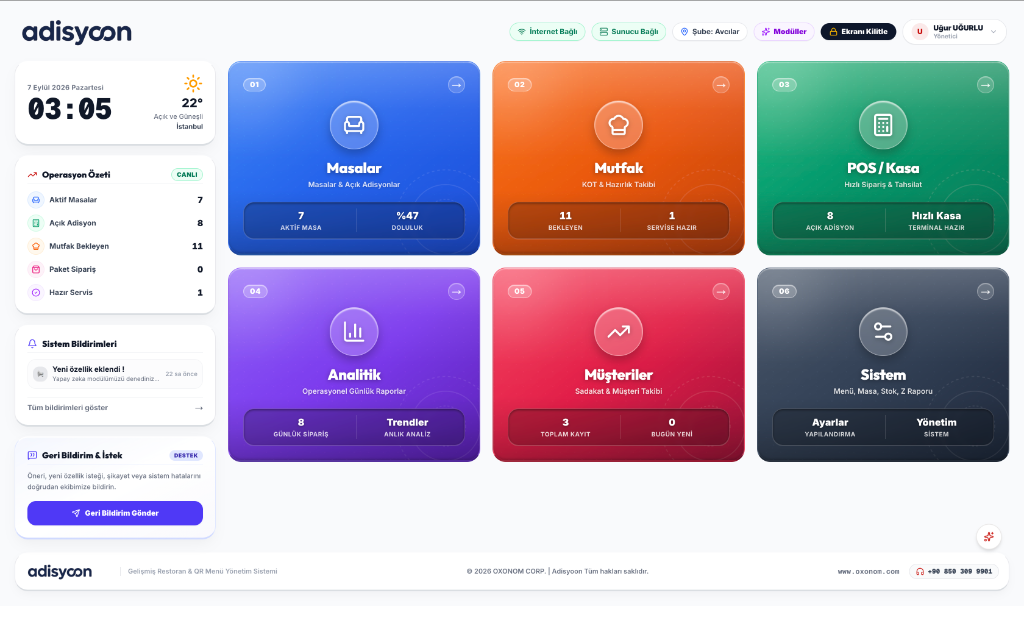
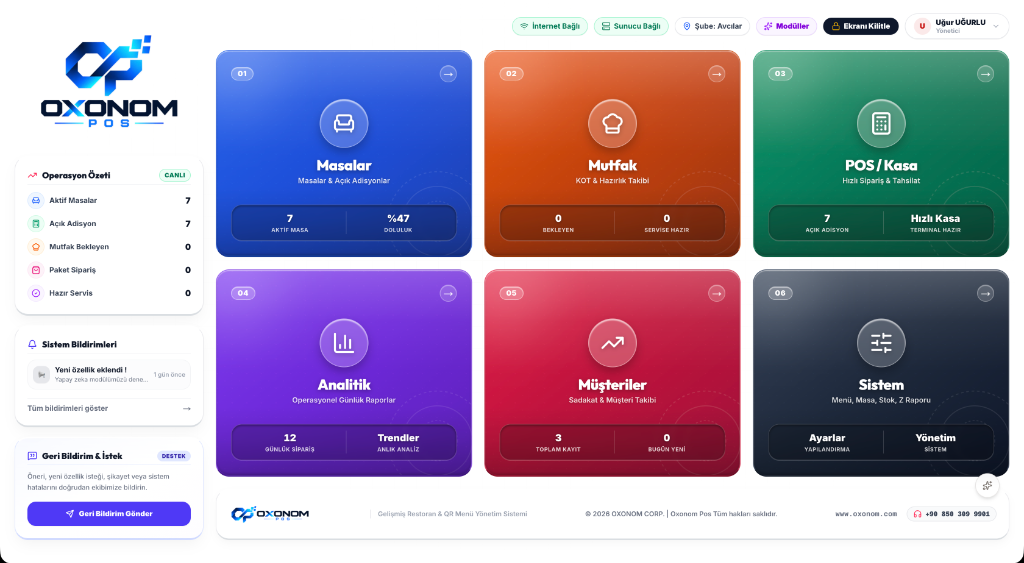
feat: implement Apple-style 3D scroll tilt animation with updated Oxonom POS screenshot

diff --git a/src/components/oxonom/hero-pos-mockup.tsx b/src/components/oxonom/hero-pos-mockup.tsx
@@ -1,59 +1,133 @@
 "use client";
 
-import React from "react";
+import React, { useRef } from "react";
 import Image from "next/image";
-import { CheckCircle2 } from "lucide-react";
-import { BrowserMockup } from "@/components/velora/browser-mockup";
+import { Lock, CheckCircle2, Wifi, Sparkles, Layers } from "lucide-react";
+import {
+  motion,
+  useScroll,
+  useTransform,
+  useSpring,
+  useReducedMotion,
+} from "motion/react";
 import { BorderBeam } from "@/components/velora/border-beam";
 
-export function HeroPosMockup({ className }: { className?: string }) {
+export function HeroPosMockup({ className = "" }: { className?: string }) {
+  const containerRef = useRef<HTMLDivElement>(null);
+  const reducedMotion = useReducedMotion();
+
+  // Track scroll position of this container relative to viewport
+  const { scrollYProgress } = useScroll({
+    target: containerRef,
+    offset: ["start end", "end start"],
+  });
+
+  // Apple-style 3D Scroll Physics:
+  // Starts tilted backward (rotateX: 22deg), translated down (translateY: 80px), and scaled (scale: 0.90).
+  // As the user scrolls down, it smoothly elevates and rotates flat (rotateX: 0deg, translateY: 0px, scale: 1.0).
+  const rawRotateX = useTransform(scrollYProgress, [0, 0.42], [22, 0]);
+  const rawTranslateY = useTransform(scrollYProgress, [0, 0.42], [80, 0]);
+  const rawScale = useTransform(scrollYProgress, [0, 0.42], [0.9, 1]);
+  const rawOpacity = useTransform(scrollYProgress, [0, 0.25], [0.65, 1]);
+
+  // Spring smoothing for that organic, momentum-based Apple feel
+  const rotateX = useSpring(rawRotateX, { stiffness: 170, damping: 26, mass: 0.5 });
+  const translateY = useSpring(rawTranslateY, { stiffness: 170, damping: 26, mass: 0.5 });
+  const scale = useSpring(rawScale, { stiffness: 170, damping: 26, mass: 0.5 });
+  const opacity = useSpring(rawOpacity, { stiffness: 170, damping: 26, mass: 0.5 });
+
   return (
-    <div className={`relative mx-auto max-w-5xl ${className}`}>
-      {/* Outer Glow */}
+    <div
+      ref={containerRef}
+      className={`relative mx-auto max-w-6xl px-2 sm:px-4 py-8 [perspective:1400px] ${className}`}
+    >
+      {/* Dynamic Ambient Background Glow */}
       <div
         aria-hidden
-        className="absolute -inset-4 sm:-inset-8 rounded-[2.5rem] bg-gradient-to-r from-primary/30 via-emerald-500/20 to-primary/30 opacity-30 blur-3xl pointer-events-none"
+        className="absolute -inset-4 sm:-inset-10 rounded-[3rem] bg-gradient-to-tr from-primary/30 via-emerald-500/20 to-blue-600/30 opacity-40 blur-3xl pointer-events-none -z-10"
       />
 
-      <BrowserMockup url="app.oxonompos.com" className="relative shadow-2xl border-border/70 overflow-hidden">
-        <BorderBeam size={160} duration={12} colorFrom="#3b82f6" colorTo="#10b981" />
+      {/* 3D Motion Container */}
+      <motion.div
+        style={
+          reducedMotion
+            ? undefined
+            : {
+                rotateX,
+                translateY,
+                scale,
+                opacity,
+                transformStyle: "preserve-3d",
+              }
+        }
+        className="w-full will-change-transform"
+      >
+        {/* Apple-Style Glass & Titanium Browser Mockup */}
+        <div className="relative rounded-2xl sm:rounded-3xl border border-border/80 bg-card/95 backdrop-blur-2xl shadow-[0_25px_80px_-15px_rgba(0,0,0,0.35)] dark:shadow-[0_30px_100px_-20px_rgba(0,0,0,0.9)] overflow-hidden">
+          {/* Neon BorderBeam animation */}
+          <BorderBeam size={200} duration={10} colorFrom="#3b82f6" colorTo="#10b981" />
 
-        <div className="relative bg-background overflow-hidden">
-          {/* Top Quick Status Header Bar */}
-          <div className="hidden sm:flex items-center justify-between px-4 py-2 bg-muted/40 border-b border-border/50 text-xs text-muted-foreground">
-            <div className="flex items-center gap-3">
-              <div className="flex items-center gap-1.5 font-semibold text-foreground">
-                <span className="size-2 rounded-full bg-emerald-500 animate-pulse" />
-                <span>Şube: Avcılar</span>
-              </div>
-              <span className="text-border">|</span>
-              <span className="text-[11px]">7 Aktif Masa (%47 Doluluk) • 8 Açık Adisyon</span>
-            </div>
+          {/* Browser Header Bar */}
+          <div className="flex items-center justify-between px-4 sm:px-6 py-3 border-b border-border/60 bg-muted/40 backdrop-blur-md">
+            {/* macOS Window Controls */}
             <div className="flex items-center gap-2">
-              <span className="inline-flex items-center gap-1 px-2 py-0.5 rounded text-[10px] font-medium bg-emerald-500/10 text-emerald-500 border border-emerald-500/20">
-                <CheckCircle2 className="size-3" />
-                İnternet & Sunucu Bağlı
+              <span className="size-3 rounded-full bg-[#ff5f56] shadow-sm ring-1 ring-black/10 hover:opacity-80 transition-opacity" />
+              <span className="size-3 rounded-full bg-[#ffbd2e] shadow-sm ring-1 ring-black/10 hover:opacity-80 transition-opacity" />
+              <span className="size-3 rounded-full bg-[#27c93f] shadow-sm ring-1 ring-black/10 hover:opacity-80 transition-opacity" />
+            </div>
+
+            {/* Apple Safari Center Address Capsule */}
+            <div className="flex items-center justify-center gap-2 px-4 py-1.5 rounded-full border border-border/60 bg-background/80 shadow-xs text-xs max-w-sm sm:max-w-md w-full mx-3">
+              <Lock className="size-3 text-emerald-500 shrink-0" />
+              <span className="font-semibold text-foreground tracking-tight text-[11px] sm:text-xs">
+                app.oxonompos.com
               </span>
-              <span className="text-border">|</span>
-              <span className="text-[11px]">app.oxonompos.com</span>
+              <span className="text-border hidden sm:inline">•</span>
+              <span className="text-[10px] text-muted-foreground hidden sm:inline truncate">
+                Merkezi Yönetim Konsolu
+              </span>
+            </div>
+
+            {/* Live Operational Status Pills */}
+            <div className="flex items-center gap-2 shrink-0">
+              <span className="hidden md:inline-flex items-center gap-1.5 px-2.5 py-1 rounded-full text-[10px] font-bold bg-emerald-500/10 text-emerald-600 dark:text-emerald-400 border border-emerald-500/25">
+                <span className="size-1.5 rounded-full bg-emerald-500 animate-pulse" />
+                <span>Canlı Bağlantı</span>
+              </span>
+              <span className="hidden sm:inline-flex items-center gap-1 text-[11px] font-medium text-muted-foreground">
+                <Wifi className="size-3 text-primary" />
+                <span>Avcılar Şube</span>
+              </span>
             </div>
           </div>
 
-          {/* Real POS Screenshot Interface Container with rounded corners */}
-          <div className="relative w-full aspect-[16/10] sm:aspect-[16/9.6] bg-card p-1 sm:p-2">
-            <div className="relative size-full overflow-hidden rounded-xl border border-border/40 shadow-inner">
+          {/* Screenshot Display Area with 1024x563 native aspect ratio */}
+          <div className="relative w-full bg-slate-950/5 dark:bg-slate-950/40 p-1.5 sm:p-3">
+            <div className="relative w-full aspect-[1024/563] overflow-hidden rounded-xl sm:rounded-2xl border border-border/40 shadow-inner bg-card">
               <Image
                 src="/images/oxonom-dashboard-real.png"
-                alt="Oxonom POS - İşletme Yönetim ve Operasyon Paneli Arayüzü"
+                alt="Oxonom POS - Yeni Nesil Restoran ve Operasyon Yönetim Paneli"
                 fill
                 priority
-                sizes="(max-width: 768px) 100vw, (max-width: 1200px) 90vw, 1100px"
-                className="object-contain object-top rounded-xl"
+                sizes="(max-width: 768px) 100vw, (max-width: 1400px) 95vw, 1200px"
+                className="object-cover object-top select-none pointer-events-none"
+              />
+
+              {/* Ultra-subtle Glass Sheen / Light Reflection across top */}
+              <div
+                aria-hidden
+                className="absolute inset-0 bg-gradient-to-b from-white/10 via-transparent to-transparent pointer-events-none"
               />
             </div>
           </div>
         </div>
-      </BrowserMockup>
+
+        {/* 3D Base Reflection Shadow */}
+        <div
+          aria-hidden
+          className="mx-auto mt-2 h-6 w-5/6 rounded-full bg-black/20 dark:bg-black/60 blur-xl pointer-events-none"
+        />
+      </motion.div>
     </div>
   );
 }

diff --git a/src/app/page.tsx b/src/app/page.tsx
@@ -150,12 +150,10 @@ export default function HomePage() {
             </div>
           </BlurFade>
 
-          {/* Product Mockup */}
-          <BlurFade delay={0.5} offset={32}>
-            <div className="mt-14 sm:mt-20">
-              <HeroPosMockup />
-            </div>
-          </BlurFade>
+          {/* Apple-Style 3D Scroll Product Mockup */}
+          <div className="mt-8 sm:mt-14 w-full">
+            <HeroPosMockup />
+          </div>
 
           {/* Capability Statistics */}
           <div className="mx-auto mt-16 sm:mt-24 grid max-w-4xl grid-cols-2 gap-6 lg:grid-cols-4 pt-10 border-t border-border/40">
